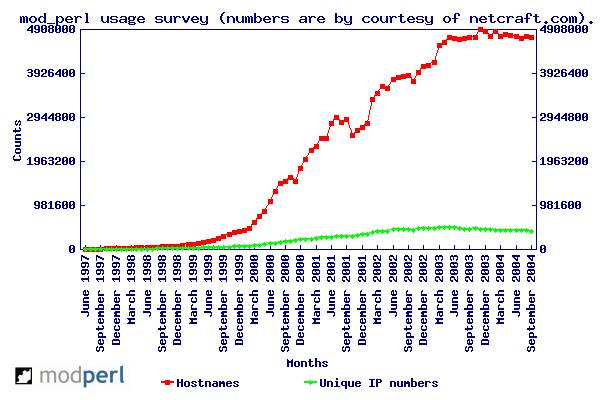
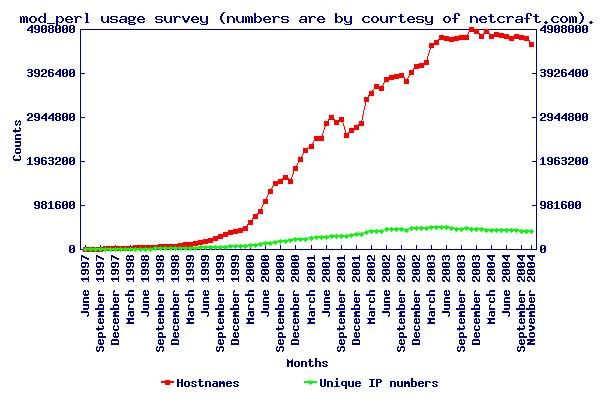
stats updates
git-svn-id: https://svn.apache.org/repos/asf/perl/modperl/docs/trunk@109515 13f79535-47bb-0310-9956-ffa450edef68

Changed region(s): [[0.15, 0.06, 0.9, 0.9], [0.0, 0.9, 0.21, 0.96]]

diff --git a/src/outstanding/stats/netcraft.html b/src/outstanding/stats/netcraft.html
@@ -24,13 +24,15 @@ survey.
 </p>
 
 <!-- monthly reports can be retrieved from
-http://www.netcraft.com/survey/Reports/0408/mod_perl.txt, adjust the
+http://www.netcraft.com/survey/Reports/0411/mod_perl.txt, adjust the
 year/month if needed. used to be
 http://www.netcraft.com/survey/Reports/200206/mod_perl.txt till July
 2002 -->
 
 <table cellpadding="3" border="1" cellspacing="0">
 <tr><th>Survey</th><th>Hostnames</th><th>Unique IP Addresses</th></tr>
+<tr><td> November 2004  </td><td>4567088</td><td>393757</td></tr>
+<tr><td> October 2004   </td><td>4697847</td><td>404247</td></tr>
 <tr><td> September 2004 </td><td>4735563</td><td>409956</td></tr>
 <tr><td> August 2004    </td><td>4742739</td><td>416808</td></tr>
 <tr><td> July 2004      </td><td>4717106</td><td>421360</td></tr>
